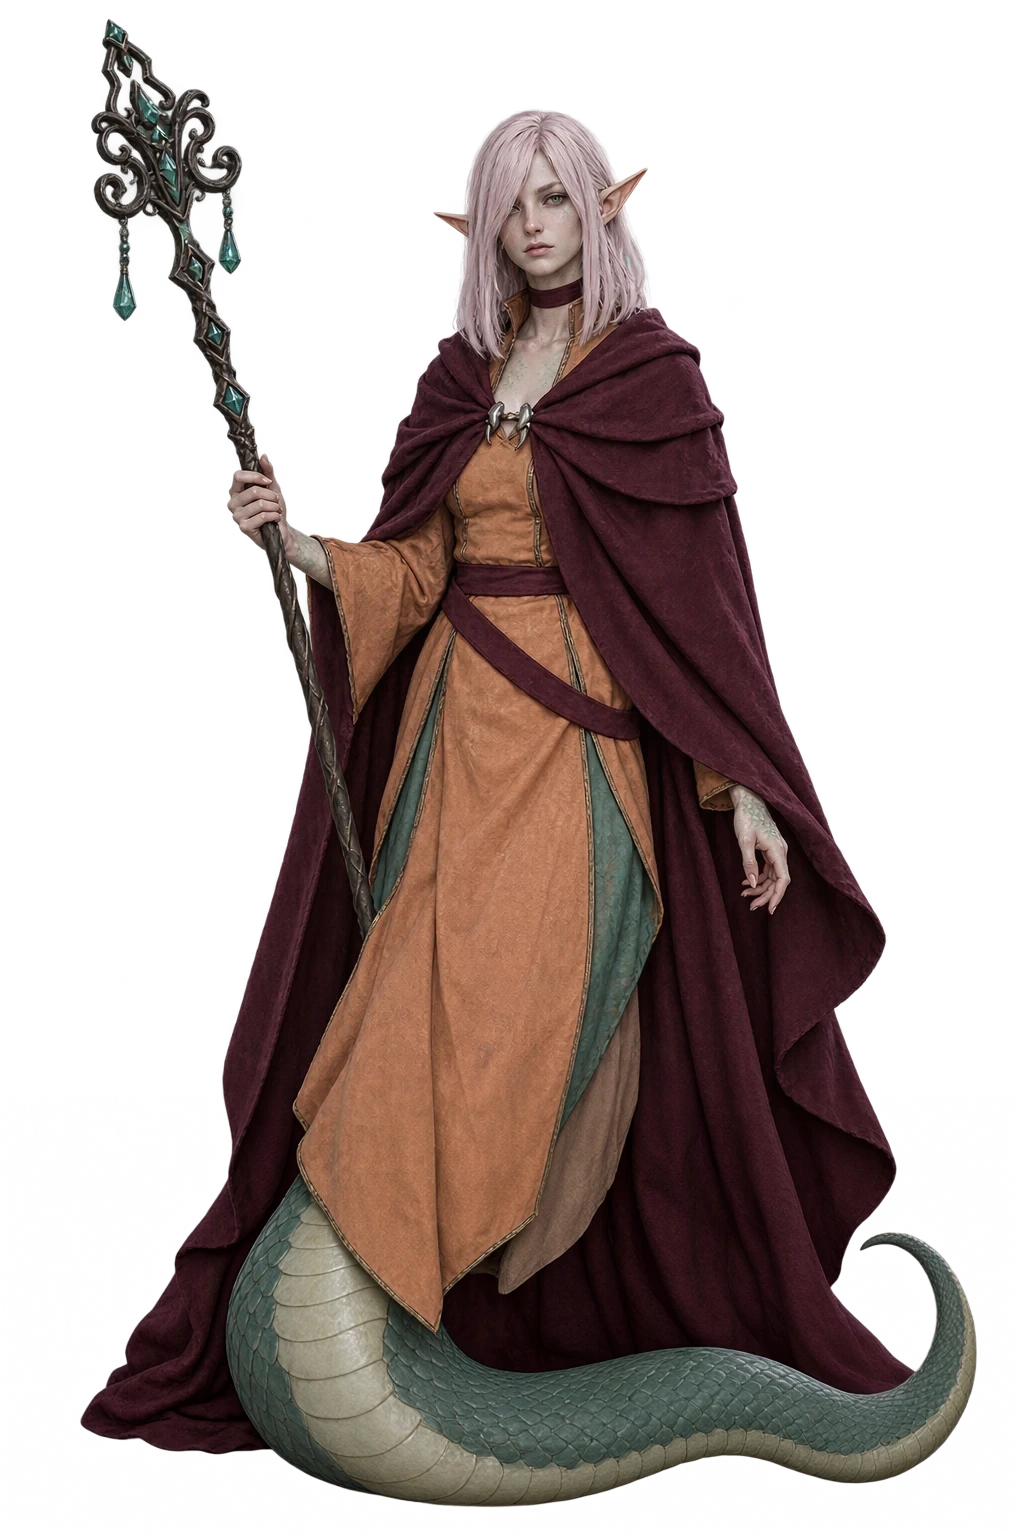
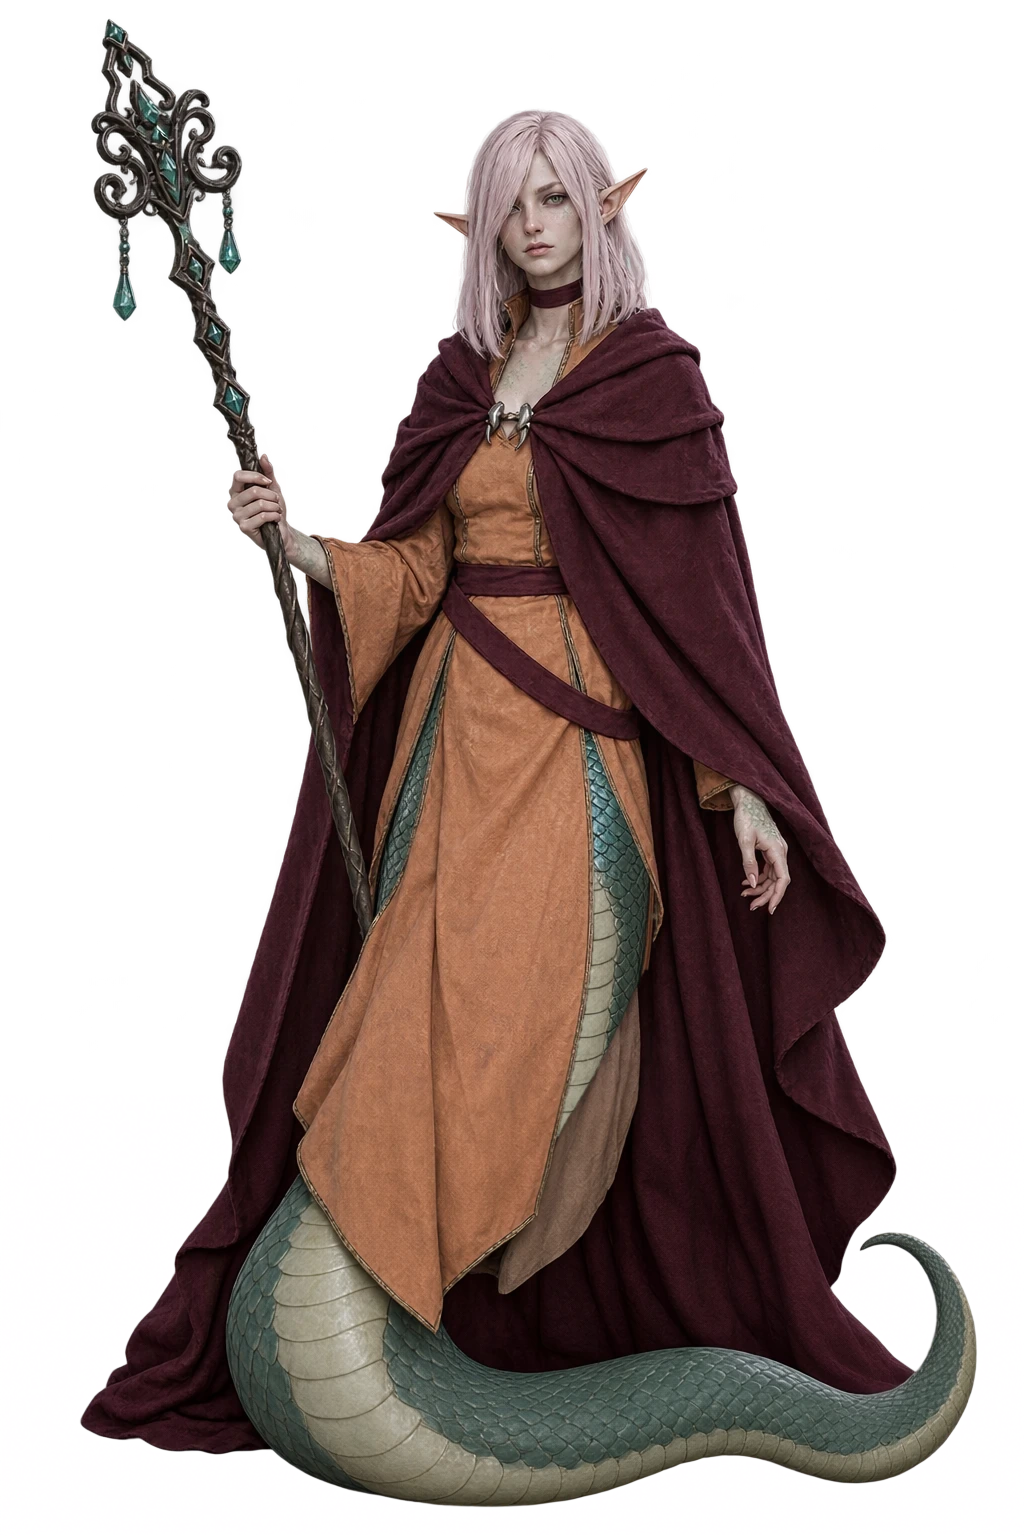
Хвост Мавики: чешуя в разрезах платья
Изображения/Персонажи/мавика.webp — по отзыву игрока: в разрезах
платья вместо бирюзовой ткани змеиное тело в чешуе. Changelog 0007.

Changed region(s): [[0.5312, 0.4688, 0.6562, 0.75], [0.375, 0.5, 0.4062, 0.5625], [0.3438, 0.5625, 0.375, 0.5938]]

diff --git a/Changelog/0007 — Хвост Мавики.md b/Changelog/0007 — Хвост Мавики.md
@@ -1,0 +1,17 @@
+---
+tags: [changelog]
+type: changelog
+date: 2026-10-14
+---
+
+# 0007 — Хвост Мавики
+
+**Когда:** 2026-10-14
+
+> [!quote] Запрос
+> Отзыв игрока: хвост на портрете не нравится, часть его слилась с одеждой — «в разрезе коричневой одежды должно быть чешуйчатое тело, а не зелёная одежда»
+
+## Изменено
+
+### Заменённые файлы
+- **`Изображения/Персонажи/мавика.webp`** — правка портрета из [[0006 — Реалистичные портреты Мавики и Ракару]]: хвост один и толстый, а в разрезах платья вместо бирюзовой ткани видно змеиное тело в чешуе, с брюшными щитками до подола. Остальной портрет прежний. Заметка [[Мавика]] не менялась

diff --git a/Changelog/Changelog.md b/Changelog/Changelog.md
@@ -11,6 +11,7 @@ type: changelog
 > «Запрос» — что попросили изменить. «Изменено» — что фактически правилось в волте. Старые записи не переписываются: если что-то оказалось неверным, исправление идёт **новой** записью.
 
 ## Записи
+- [[0007 — Хвост Мавики]] — 2026-10-14
 - [[0006 — Реалистичные портреты Мавики и Ракару]] — 2026-10-14
 - [[0005 — Портреты партии]] — 2026-10-07
 - [[0004 — Заметки о персонажах партии]] — 2026-10-05
